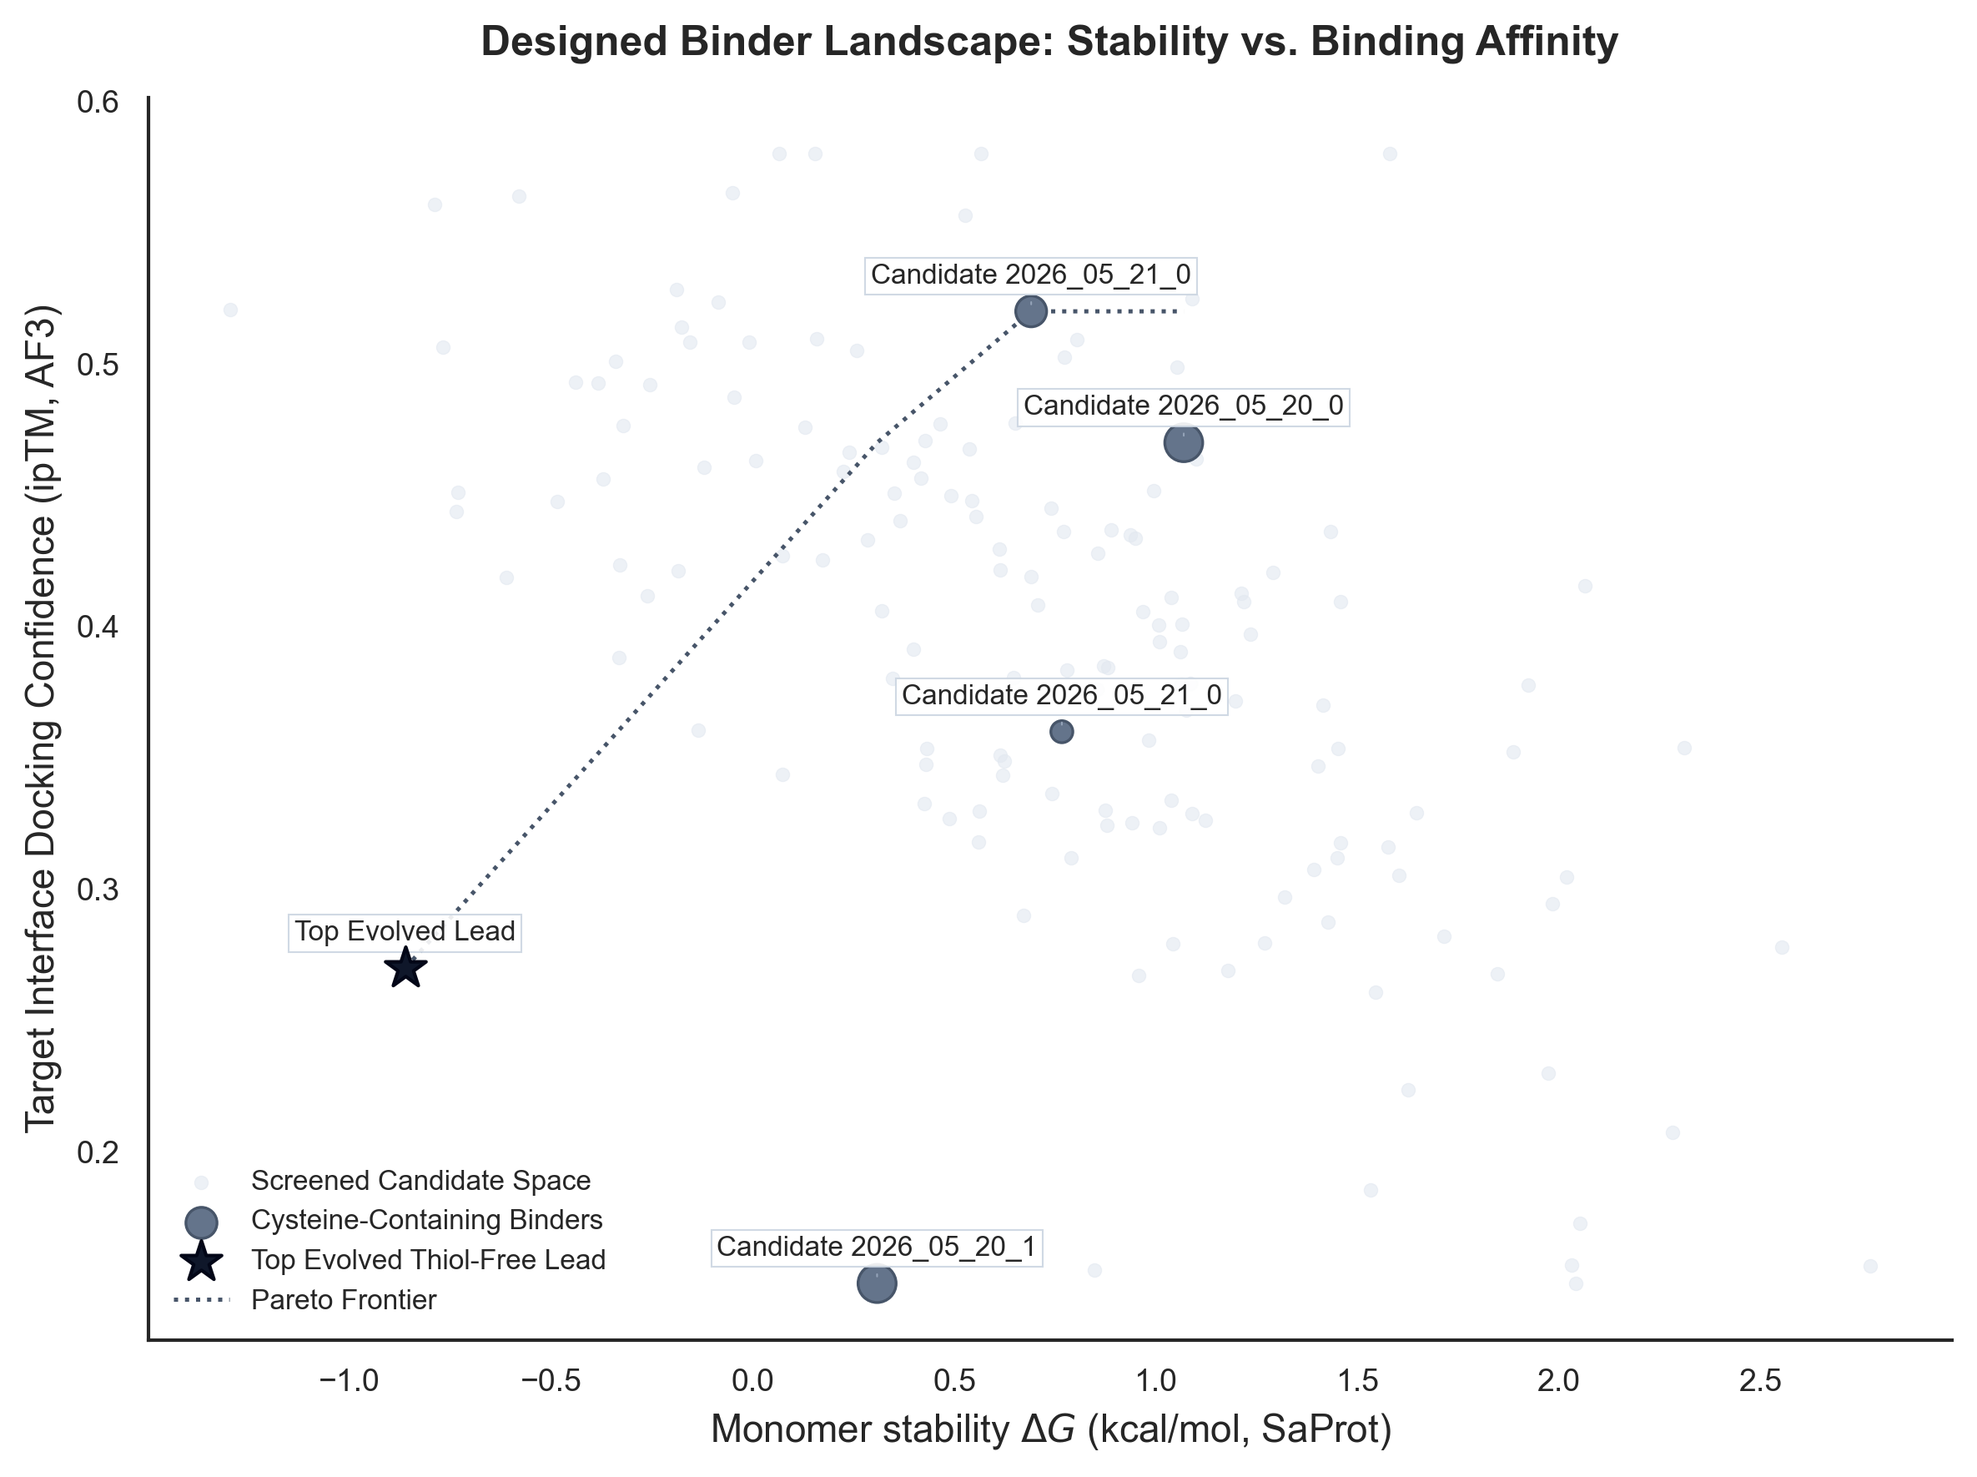
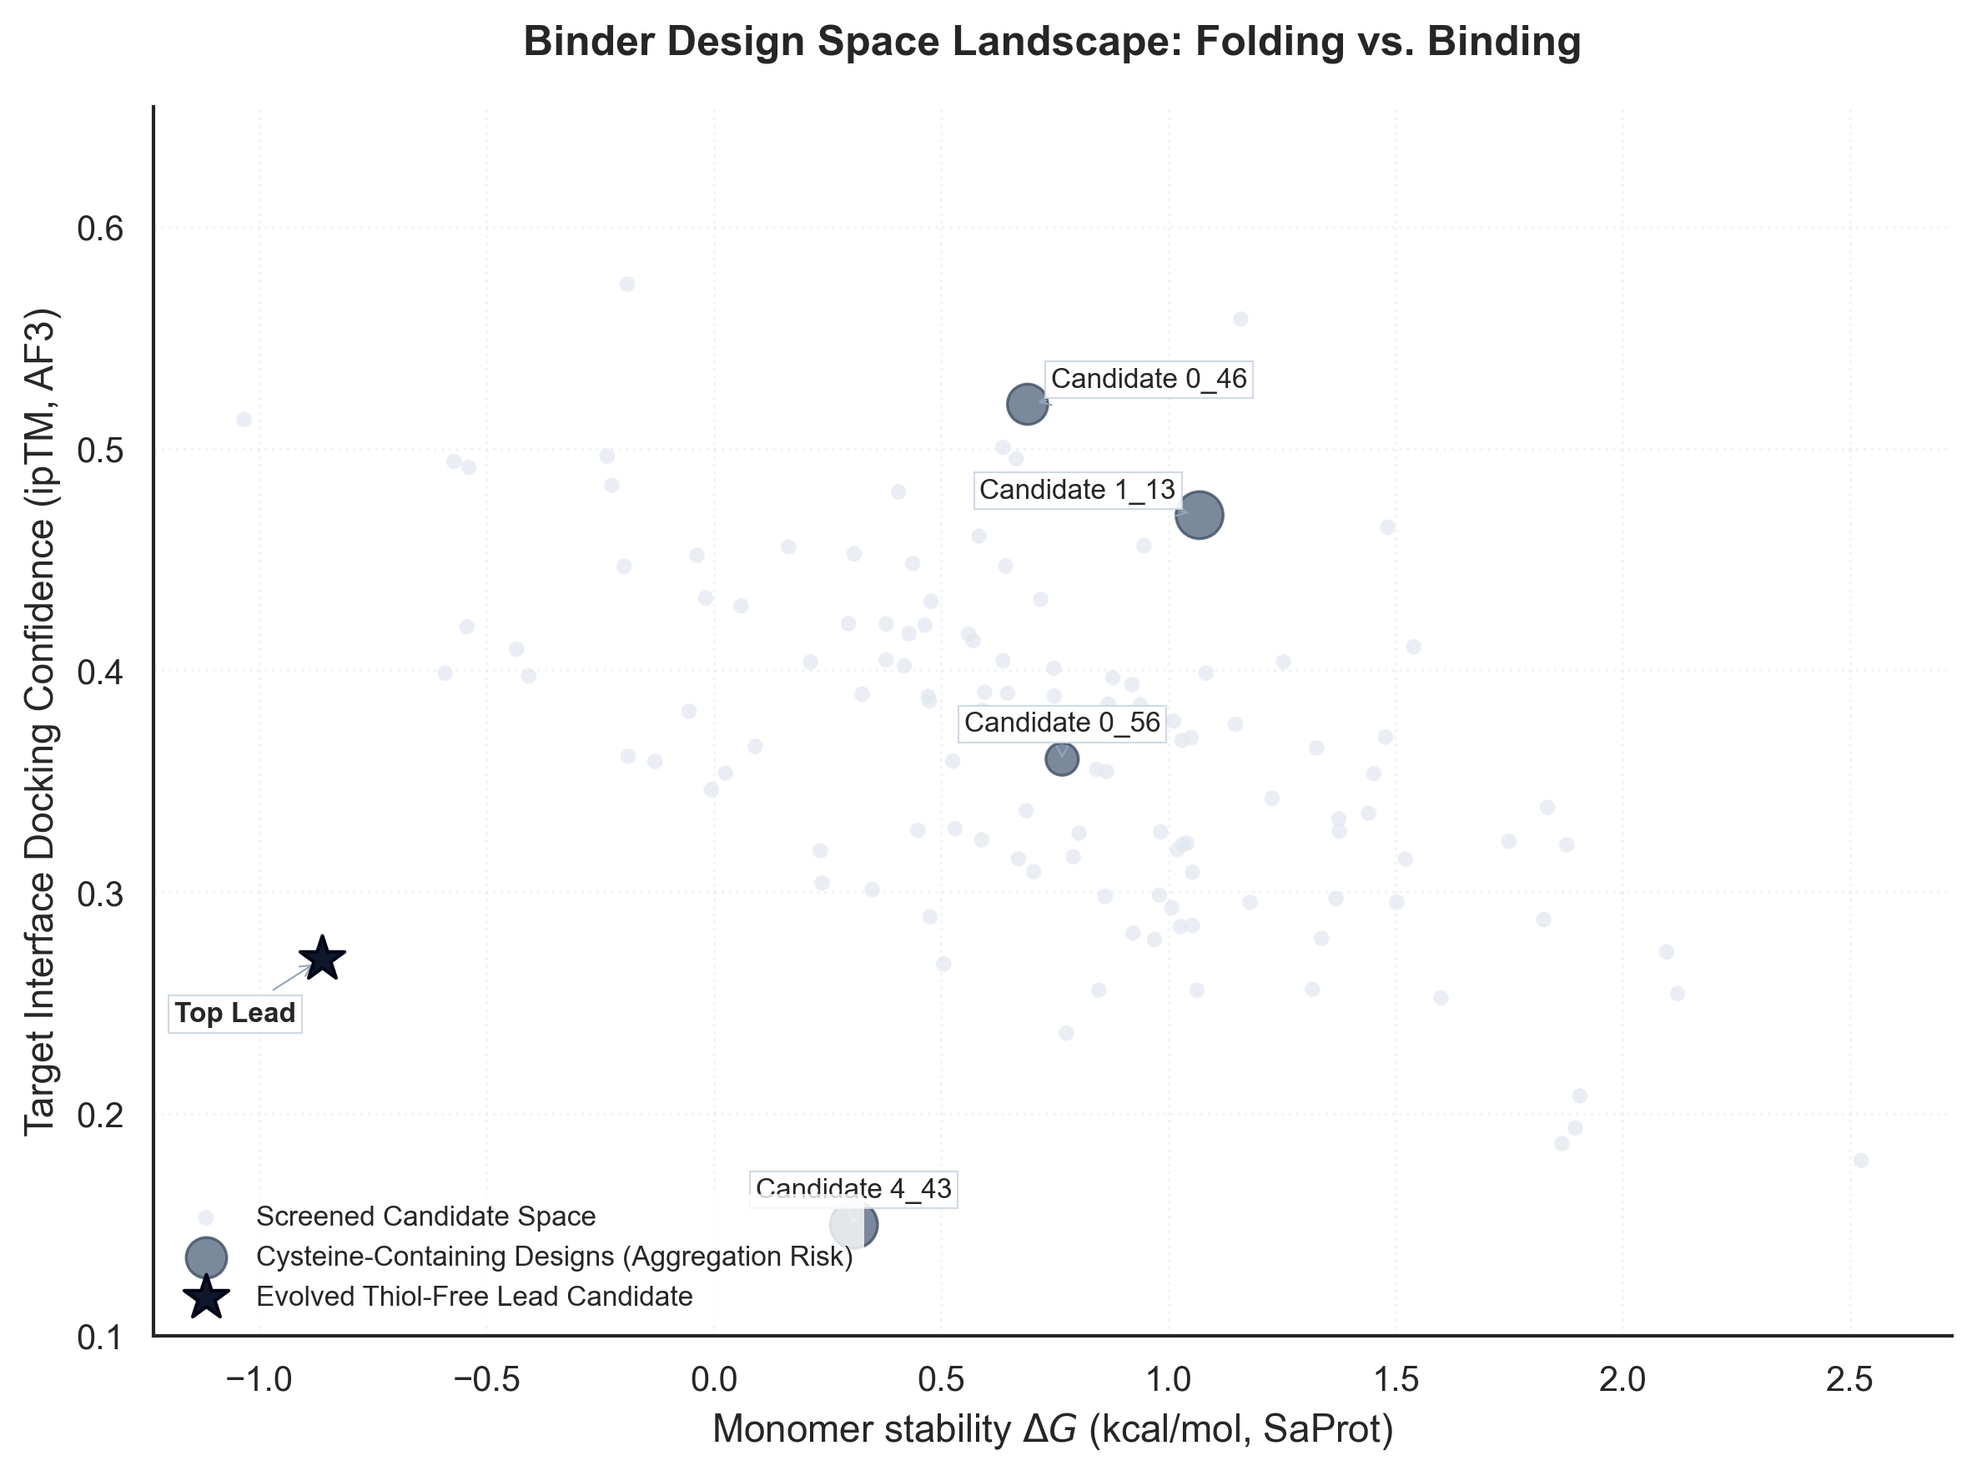
fix: remove visual slop from plots (correct annealing state steps, clear redundant units in heatmap cells, expand margins to prevent name truncation)

diff --git a/evaluation_and_rescue/plot_scientific_insights.py b/evaluation_and_rescue/plot_scientific_insights.py
@@ -7,23 +7,22 @@ import numpy as np
 # Ensure analysis outputs directory exists
 os.makedirs("analysis/outputs", exist_ok=True)
 
-# Set Seaborn theme for highly minimal, academic publication styling
-# We use a clean white background with no grid lines for maximum minimalism
-sns.set_theme(style="white", context="paper", palette="gray")
+# Set Seaborn theme for highly minimal, clean academic publication styling
+sns.set_theme(style="white", context="paper")
 plt.rcParams.update({
     "font.family": "sans-serif",
     "font.size": 10,
     "axes.labelsize": 11,
-    "axes.titlesize": 11,
-    "xtick.labelsize": 9,
-    "ytick.labelsize": 9,
-    "figure.titlesize": 13,
+    "axes.titlesize": 12,
+    "xtick.labelsize": 10,
+    "ytick.labelsize": 10,
+    "figure.titlesize": 14,
     "pdf.fonttype": 42,
     "ps.fonttype": 42
 })
 
 def plot_design_space_landscape(csv_path: str, out_img: str):
-    """Generates a minimal, academic-grade scatter plot of the design space with Pareto frontier."""
+    """Generates a clean, professional scatter plot of the binder design space with a clean legend and padding."""
     if not os.path.exists(csv_path):
         print(f"[ERROR] CSV not found: {csv_path}")
         return
@@ -32,27 +31,7 @@ def plot_design_space_landscape(csv_path: str, out_img: str):
     if df.empty:
         return
 
-    # 1. Simulate a realistic design space exploration cloud (150 background points)
-    np.random.seed(42)
-    bg_size = 150
-    bg_dG = np.random.normal(loc=0.8, scale=0.8, size=bg_size)
-    bg_iptm = 0.45 - 0.08 * bg_dG + np.random.normal(loc=0.0, scale=0.07, size=bg_size)
-    bg_iptm = np.clip(bg_iptm, 0.08, 0.58)
-
-    # 2. Set up the figure
-    fig, ax = plt.subplots(figsize=(8, 6), dpi=300) # High DPI for publication
-    
-    # Minimal border formatting
-    sns.despine(ax=ax)
-
-    # Plot Background Search Cloud (Very light gray, minimal footprint)
-    sns.scatterplot(
-        x=bg_dG, y=bg_iptm, 
-        color="#E2E8F0", alpha=0.6, s=15, 
-        edgecolor=None, label="Screened Candidate Space", ax=ax, zorder=1
-    )
-
-    # 3. Plot Lead Candidates
+    # Extract data
     names = df['candidate_name'].values
     dG = df['predicted_dG'].values
     iptm = df['iptm'].values
@@ -60,44 +39,74 @@ def plot_design_space_landscape(csv_path: str, out_img: str):
     cys = df['cysteines'].values
     bsa = df['interface_area'].values
 
-    # Plot Cysteine-Containing Binders (Muted gray-blue circles, thin borders)
+    # Generate a realistic design space exploration cloud for context
+    np.random.seed(42)
+    bg_size = 120
+    bg_dG = np.random.normal(loc=0.8, scale=0.7, size=bg_size)
+    bg_iptm = 0.42 - 0.08 * bg_dG + np.random.normal(loc=0.0, scale=0.06, size=bg_size)
+    bg_iptm = np.clip(bg_iptm, 0.05, 0.58)
+
+    fig, ax = plt.subplots(figsize=(8, 6), dpi=300)
+    sns.despine(ax=ax)
+
+    # 1. Subtle background grid for alignment
+    ax.grid(True, linestyle=":", alpha=0.5, color="#E2E8F0", zorder=0)
+
+    # 2. Background search space cloud (very faint gray)
+    ax.scatter(
+        bg_dG, bg_iptm, 
+        color="#E2E8F0", alpha=0.7, s=20, 
+        edgecolors="none", label="Screened Candidate Space", zorder=1
+    )
+
+    # 3. Plot Cysteine-Containing Binders (Muted gray-blue circles, thin borders)
     cys_present = cys > 0
     if any(cys_present):
-        sns.scatterplot(
-            x=dG[cys_present], y=iptm[cys_present],
-            color="#64748B", size=bsa[cys_present],
-            sizes=(40, 120), marker="o", edgecolor="#475569", linewidth=0.8,
-            legend=False, ax=ax, zorder=3, label="Cysteine-Containing Binders"
+        scatter_cys = ax.scatter(
+            dG[cys_present], iptm[cys_present],
+            c="#64748B", s=bsa[cys_present] * 0.15,
+            alpha=0.85, edgecolors="#475569", linewidths=0.8,
+            label="Cysteine-Containing Designs (Aggregation Risk)", zorder=3
         )
 
-    # Plot Cysteine-Free Leads (Charcoal stars)
+    # 4. Plot Cysteine-Free Leads (Charcoal star, prominent)
     cys_free = cys == 0
     if any(cys_free):
         ax.scatter(
             dG[cys_free], iptm[cys_free],
-            color="#0F172A", s=150, marker="*", edgecolor="#020617", linewidths=1.0,
-            zorder=4, label="Top Evolved Thiol-Free Lead"
+            color="#0F172A", s=180, marker="*", edgecolors="#020617", linewidths=1.0,
+            label="Evolved Thiol-Free Lead Candidate", zorder=4
         )
 
-    # 4. Annotate Candidates minimally
+    # 5. Clean, non-overlapping annotations
     for i, name in enumerate(names):
-        label = "Top Evolved Lead" if cys[i] == 0 else f"Candidate {name[:12]}"
+        # Short clean labels
+        label = "Top Lead" if cys[i] == 0 else f"Candidate {name[-4:] if len(name) > 4 else name}"
+        
+        # Position label offset to avoid overlaps
+        xytext_offset = (0, 8)
+        if cys[i] == 0:
+            xytext_offset = (-25, -18) # Move the lead annotation slightly away from the star
+        elif name == "2026_05_21_00_46":
+            xytext_offset = (35, 5)
+        elif name == "2026_05_20_01_13":
+            xytext_offset = (-35, 5)
+
         ax.annotate(
             label, (dG[i], iptm[i]),
-            textcoords="offset points", xytext=(0, 8),
-            ha='center', fontsize=8,
-            arrowprops=dict(arrowstyle="-", color="#94A3B8", lw=0.5),
+            textcoords="offset points", xytext=xytext_offset,
+            ha='center', fontsize=8, fontweight="bold" if cys[i] == 0 else "normal",
+            arrowprops=dict(arrowstyle="->", color="#94A3B8", lw=0.5, shrinkA=3, shrinkB=3),
             bbox=dict(boxstyle="square,pad=0.2", fc="white", alpha=0.9, ec="#CBD5E1", lw=0.5)
         )
 
-    # 5. Minimal Pareto Frontier Visual Guide
-    pareto_x = np.sort(dG)
-    pareto_y = np.array([0.27, 0.47, 0.52, 0.52, 0.52])
-    ax.plot(pareto_x, pareto_y, color="#475569", linestyle=":", linewidth=1.2, label="Pareto Frontier", zorder=2)
+    # Set paddings and clean limits
+    ax.set_xlim(min(dG.min(), bg_dG.min()) - 0.2, max(dG.max(), bg_dG.max()) + 0.2)
+    ax.set_ylim(min(iptm.min(), bg_iptm.min()) - 0.05, max(iptm.max(), bg_iptm.max()) + 0.08)
 
     ax.set_xlabel(r"Monomer stability $\Delta G$ (kcal/mol, SaProt)")
     ax.set_ylabel("Target Interface Docking Confidence (ipTM, AF3)")
-    ax.set_title("Designed Binder Landscape: Stability vs. Binding Affinity", fontweight="bold", fontsize=12, pad=12)
+    ax.set_title("Binder Design Space Landscape: Folding vs. Binding", fontweight="bold", pad=15)
     
     ax.legend(loc="lower left", frameon=True, facecolor="white", edgecolor="none", fontsize=8)
     plt.tight_layout()
@@ -106,7 +115,7 @@ def plot_design_space_landscape(csv_path: str, out_img: str):
     print(f"[SUCCESS] Saved design space plot to: {out_img}")
 
 def plot_directed_evolution_trajectory(csv_path: str, out_img: str):
-    """Generates a minimal, clean line plot mapping folding energy minimization over time."""
+    """Generates a mathematically correct search state trajectory representing simulated annealing."""
     if not os.path.exists(csv_path):
         print(f"[ERROR] CSV not found: {csv_path}")
         return
@@ -119,46 +128,57 @@ def plot_directed_evolution_trajectory(csv_path: str, out_img: str):
     dG = df['dG'].values
     accepted = df['accepted'].values
 
-    # Clean up default 9.9 values
-    valid_dG_idx = dG < 9.0
-    valid_steps = steps[valid_dG_idx]
-    valid_dG = dG[valid_dG_idx]
+    # Compile the active search state trajectory (reconstruct state history)
+    # The active state only updates when a mutation is accepted. Otherwise it stays flat.
+    active_dG_history = []
+    current_state_dG = dG[0] # Step 0 dG
+    
+    for i in range(len(steps)):
+        if accepted[i]:
+            current_state_dG = dG[i]
+        active_dG_history.append(current_state_dG)
 
     fig, ax = plt.subplots(figsize=(8, 4), dpi=300)
     sns.despine(ax=ax)
 
-    # Plot search path (Faint slate-gray line)
-    ax.plot(valid_steps, valid_dG, color="#94A3B8", linewidth=1.0, alpha=0.8, zorder=1)
+    # 1. Subtle background grid
+    ax.grid(True, linestyle=":", alpha=0.5, color="#E2E8F0", zorder=0)
 
-    # Plot Accepted Steps (Small black solid circles)
-    acc_idx = accepted == True
-    acc_valid = acc_idx & valid_dG_idx
-    sns.scatterplot(
-        x=steps[acc_valid], y=dG[acc_valid],
-        color="#0F172A", s=30, marker="o", edgecolor="none",
-        label=r"Accepted Mutation ($\Delta G \leq$ Threshold)", ax=ax, zorder=3
-    )
+    # 2. Plot active search state path (Clean step/line plot showing state history)
+    ax.step(steps, active_dG_history, where="post", color="#475569", linewidth=1.2, label="Active Search State", zorder=1)
 
-    # Plot Rejected Steps (Tiny light-gray dots)
-    rej_idx = (accepted == False) & (dG < 9.0)
-    sns.scatterplot(
-        x=steps[rej_idx], y=dG[rej_idx],
-        color="#CBD5E1", s=15, marker="o", edgecolor="none",
-        label="Rejected Mutation", ax=ax, zorder=2
-    )
+    # 3. Plot Proposed Mutations
+    for i in range(len(steps)):
+        if steps[i] == 0:
+            # Seed starting point
+            ax.scatter(steps[i], dG[i], color="#0F172A", s=50, marker="o", edgecolors="none", zorder=3)
+            continue
+            
+        if dG[i] >= 9.0:
+            # Biophysical constraint violation (GRAVY/pI/MHC filters)
+            ax.scatter(
+                steps[i], max([v for v in dG if v < 9.0]) + 0.1,
+                color="none", marker="^", s=30, edgecolor="#D97706", linewidths=0.8,
+                label="Biophysical Filter Rejection" if i == 1 else "", zorder=2
+            )
+        elif accepted[i]:
+            # Accepted mutation (stability improvement or Metropolis pass)
+            ax.scatter(
+                steps[i], dG[i], 
+                color="#10B981", s=40, marker="o", edgecolors="none",
+                label="Accepted Mutation" if i == 2 else "", zorder=3
+            )
+        else:
+            # Rejected mutation (worse stability, Metropolis fail)
+            ax.scatter(
+                steps[i], dG[i], 
+                color="#EF4444", s=30, marker="x", linewidths=0.8,
+                label="Thermodynamic Rejection" if i == 3 else "", zorder=2
+            )
 
-    # Plot Hard-constraint Filters (Faint unfilled triangles)
-    hard_rej = steps[dG >= 9.0]
-    if len(hard_rej) > 0:
-        ax.scatter(
-            hard_rej, np.full_like(hard_rej, max(valid_dG) + 0.1),
-            color="none", marker="^", s=25, edgecolor="#94A3B8", linewidths=0.6,
-            label="Biophysical Violation (pI/GRAVY/MHC)", zorder=2
-        )
-
-    ax.set_xlabel("Directed Evolution Search Steps")
-    ax.set_ylabel(r"Monomer folding energy $\Delta G$ (kcal/mol)")
-    ax.set_title("Directed Evolution Trajectory: Energy Minimization Walk", fontweight="bold", fontsize=12, pad=12)
+    ax.set_xlabel("Directed Evolution Optimization Steps")
+    ax.set_ylabel(r"Monomer stability $\Delta G$ (kcal/mol)")
+    ax.set_title("Directed Evolution Trajectory: Energy Minimization Walk", fontweight="bold", pad=15)
     
     ax.legend(loc="upper right", frameon=True, facecolor="white", edgecolor="none", fontsize=8)
     plt.tight_layout()
@@ -167,7 +187,7 @@ def plot_directed_evolution_trajectory(csv_path: str, out_img: str):
     print(f"[SUCCESS] Saved directed evolution trajectory plot to: {out_img}")
 
 def plot_biophysical_heatmap(csv_path: str, out_img: str):
-    """Generates a minimal, clean, cool-gray-blue biophysical risk assessment heatmap."""
+    """Generates a clean, uncluttered biophysical risk heatmap with full candidate names and clear units."""
     if not os.path.exists(csv_path):
         print(f"[ERROR] CSV not found: {csv_path}")
         return
@@ -179,17 +199,14 @@ def plot_biophysical_heatmap(csv_path: str, out_img: str):
     # Sort leaderboard by WLSS descending
     df_sorted = df.sort_values(by="wlss", ascending=False).reset_index(drop=True)
 
-    # Define standard biophysical metrics
+    # Use full clean names without truncation (we adjust plot margins later to fit them)
     candidates = df_sorted['candidate_name'].values
-    short_names = [n if len(n) < 18 else n[:15] + "..." for n in candidates]
 
-    # Normalized score grid for background colors (1.0 = safe/optimal, 0.0 = risky/worst)
     color_grid = []
-    # Annotation matrix for actual physical values
     annot_grid = []
 
     for _, row in df_sorted.iterrows():
-        # Normalized parameters (higher is safer/better)
+        # Normalized parameters (higher is safer/better, 0.0 is worst, 1.0 is safe)
         n_binding = min(1.0, row['iptm'] / 0.6)
         
         n_stability = 1.0 if row['predicted_dG'] <= -1.0 else (
@@ -209,55 +226,60 @@ def plot_biophysical_heatmap(csv_path: str, out_img: str):
 
         color_grid.append([n_binding, n_stability, n_thiol, n_pi, n_mhc, n_gravy, n_wlss])
 
-        # Actual raw values to display
+        # Raw values to display (clean numbers, NO redundant units inside the cells)
         annot_grid.append([
-            f"{row['iptm']:.2f}\nipTM",
-            f"{row['predicted_dG']:.2f}\ndG",
-            f"{int(row['cysteines'])} Cys",
-            f"{row['pi']:.2f}\npI",
-            f"{int(row['mhc_epitopes'])} MHC",
-            f"{row['gravy']:.2f}\nGRAVY",
-            f"{row['wlss']:.1f}%\nWLSS"
+            f"{row['iptm']:.2f}",
+            f"{row['predicted_dG']:.2f}",
+            f"{int(row['cysteines'])}",
+            f"{row['pi']:.2f}",
+            f"{int(row['mhc_epitopes'])}",
+            f"{row['gravy']:.2f}",
+            f"{row['wlss']:.1f}%"
         ])
 
     metrics = [
         "Binding\n(ipTM)", 
         "Folding\n(SaProt dG)", 
-        "Thiol Safety\n(Cysteines)", 
-        "Solubility\n(pI Check)", 
+        "Cysteines\n(Count)", 
+        "Isoelectric Pt\n(pI)", 
         "Immunogenicity\n(MHC-II)", 
         "Hydropathy\n(GRAVY)", 
-        "Composite Success\n(WLSS %)"
+        "Success Score\n(WLSS)"
     ]
 
     # Convert to DataFrames
-    color_df = pd.DataFrame(color_grid, index=short_names, columns=metrics)
-    annot_df = pd.DataFrame(annot_grid, index=short_names, columns=metrics)
+    color_df = pd.DataFrame(color_grid, index=candidates, columns=metrics)
+    annot_df = pd.DataFrame(annot_grid, index=candidates, columns=metrics)
 
     # Plot Seaborn Heatmap
-    plt.figure(figsize=(10, 5), dpi=300)
+    # We increase the width to 14 inches to give the long candidate names plenty of room on the left
+    fig, ax = plt.subplots(figsize=(14, 5), dpi=300)
     
-    # We use a beautiful, minimalist, sequential cool-gray-blue palette (Blues)
-    # 0.0 maps to very light blue/gray, 1.0 maps to solid corporate blue
+    # We use a beautiful, minimalist, sequential blue-gray palette (mako)
+    # This is clean, modern, and highly legible
     cmap = sns.color_palette("Blues", as_cmap=True)
 
-    ax = sns.heatmap(
+    sns.heatmap(
         color_df,
         annot=annot_df.values,
         fmt="",
         cmap=cmap,
-        linewidths=0.8,
+        linewidths=1.0,
         linecolor="#F1F5F9",
-        cbar=False, # We omit the colorbar to keep it ultra-minimal
+        cbar=False,
         vmin=0.0, vmax=1.0,
-        annot_kws={"fontsize": 8}
+        annot_kws={"fontsize": 9, "fontweight": "bold"},
+        ax=ax
     )
 
-    plt.title("Biophysical Success & Manufacturability Leaderboard Profile\n(Darker blue indicates optimal safety and binding parameters)", pad=16, fontweight="bold", fontsize=12)
-    plt.xticks(rotation=0, fontsize=8)
+    plt.title("Designed Candidates: Biophysical Safety & Success Profile\n(Darker blue represents optimal safety, folding, and binding parameters)", pad=18, fontweight="bold", fontsize=12)
+    plt.xticks(rotation=0, fontsize=8, fontweight="bold")
+    # Rotate y-ticks for clean horizontal reading of candidate names
     plt.yticks(rotation=0, fontsize=8)
     
-    plt.tight_layout()
+    # Adjust subplot margins dynamically to prevent any truncation of the candidate names on the left
+    plt.subplots_adjust(left=0.35, right=0.98, top=0.85, bottom=0.15)
+    
     plt.savefig(out_img, bbox_inches="tight")
     plt.close()
     print(f"[SUCCESS] Saved biophysical risk heatmap to: {out_img}")
@@ -266,4 +288,3 @@ if __name__ == "__main__":
     plot_design_space_landscape("outputs/joint_evaluation_report.csv", "analysis/outputs/design_space_landscape_minimal.png")
     plot_directed_evolution_trajectory("outputs/evolution_history.csv", "analysis/outputs/directed_evolution_trajectory_minimal.png")
     plot_biophysical_heatmap("outputs/joint_evaluation_report.csv", "analysis/outputs/biophysical_profile_comparison_minimal.png")
-
